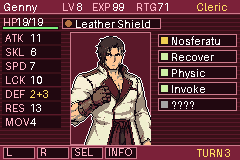
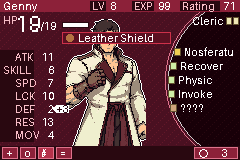
Rediseño más fiel: semicírculo translúcido, retrato grande, HP grande
Claude-Session: https://claude.ai/code/session_01C4QAM7MwvCQVjJLG12SBSt

diff --git a/gba_status/generar.py b/gba_status/generar.py
@@ -1,74 +1,101 @@
-"""Pantalla de estado estilo GBA: 240x160, color RGB555 (15 bits)."""
+"""Pantalla de estado estilo GBA: 240x160, color RGB555 (15 bits).
+El semicirculo usa mezcla alfa 50% (equivalente a BLDALPHA de la GBA)."""
 from PIL import Image, ImageDraw, ImageFont
 
 W, H = 240, 160
-def c(r, g, b):  # cuantiza a 5 bits por canal (paleta GBA)
+def c(r, g, b):
     q = lambda v: (v >> 3) << 3 | (v >> 5)
     return (q(r), q(g), q(b))
 
-BG, BG2 = c(56, 16, 24), c(88, 24, 40)
-BAR, FR = c(120, 32, 56), c(200, 120, 136)
-TXT, LBL, HL = c(248, 248, 248), c(248, 176, 192), c(248, 216, 96)
-DARK = c(32, 8, 16)
-SKIN, HAIR, HAIR2, EYE = c(248, 216, 184), c(240, 136, 104), c(200, 88, 72), c(112, 56, 32)
+BG, BG2 = c(72, 16, 32), c(96, 24, 40)
+BAR, FR = c(136, 32, 56), c(216, 112, 136)
+TXT, LBL, HL = c(248, 248, 248), c(240, 184, 196), c(248, 216, 96)
+DARK = c(40, 8, 16)
 
 img = Image.new("RGB", (W, H), BG)
 d = ImageDraw.Draw(img); d.fontmode = "1"
-f = ImageFont.load_default()  # fuente bitmap pequeña
-def t(x, y, s, col=TXT): d.text((x, y), s, font=f, fill=col)
+f = ImageFont.load_default()
+def t(x, y, s, col=TXT, dd=None): (dd or d).text((x, y), s, font=f, fill=col)
+def big(x, y, s, col=TXT):  # texto 2x estilo pixel
+    tmp = Image.new("L", (60, 14)); td = ImageDraw.Draw(tmp); td.fontmode = "1"
+    td.text((0, 0), s, font=f, fill=255)
+    tmp = tmp.resize((120, 28), Image.NEAREST)
+    img.paste(Image.new("RGB", tmp.size, col), (x, y), tmp)
 
-# fondo con franjas
-for y in range(14, 144, 4): d.line([(0, y), (W, y)], fill=BG2)
+# fondo con viñeta diagonal sutil
+for y in range(H):
+    for x in range(0, W, 2):
+        if (x + y) % 8 == 0: img.putpixel((x, y), BG2)
 
-# barra superior
-d.rectangle([0, 0, 239, 12], fill=BAR); d.line([(0, 13), (239, 13)], fill=FR)
-t(3, 1, "Genny"); t(62, 1, "LV", LBL); t(76, 1, "8")
-t(92, 1, "EXP", LBL); t(112, 1, "99"); t(136, 1, "RTG", LBL); t(158, 1, "71")
-t(196, 1, "Cleric", HL)
-
-# HP
-t(3, 16, "HP", LBL); t(16, 16, "19/19")
-d.rectangle([2, 26, 58, 29], fill=DARK); d.rectangle([3, 27, 57, 28], fill=c(120, 232, 120))
-
-# retrato: arte del usuario (retrato.png), sin fondo y cuantizado a RGB555
-px, py = 70, 32
-d.rectangle([px, py, px + 80, py + 112], fill=BG2, outline=FR)
-art = Image.open("retrato.png").convert("RGB").crop((0, 0, 80, 112))
+# retrato grande detrás (arte del usuario)
+art = Image.open("retrato.png").convert("RGB")
 bgc = art.getpixel((0, 0))
-mask = Image.new("L", art.size, 255)
+mask = Image.new("L", art.size, 0)
 for y in range(art.height):
     for x in range(art.width):
         p = art.getpixel((x, y))
-        if sum(abs(p[i] - bgc[i]) for i in range(3)) < 40: mask.putpixel((x, y), 0)
+        if sum(abs(p[i] - bgc[i]) for i in range(3)) >= 40: mask.putpixel((x, y), 255)
         art.putpixel((x, y), c(*p))
-img.paste(art, (px + 1, py + 1), mask)
-# objeto equipado
-d.rectangle([62, 18, 160, 28], fill=DARK, outline=FR)
-d.ellipse([65, 20, 71, 26], fill=c(176, 112, 64)); t(75, 18, "Leather Shield")
+img.paste(art, (66, 16), mask)
 
-# stats
-stats = [("ATK", "11"), ("SKL", "6"), ("SPD", "7"), ("LCK", "10"),
-         ("DEF", "2+3"), ("RES", "13"), ("MOV", "4")]
+# semicirculo negro translucido a la derecha (alpha 50%)
+cx, cy, r = 250, 80, 82
+ov = Image.new("RGB", (W, H), (0, 0, 0)); m = Image.new("L", (W, H), 0)
+ImageDraw.Draw(m).ellipse([cx - r, cy - r, cx + r, cy + r], fill=150)
+img = Image.composite(ov, img, m)
+img = img.point(lambda v: (v >> 3) << 3 | (v >> 5))  # re-cuantizar a RGB555
+d = ImageDraw.Draw(img); d.fontmode = "1"
+d.arc([cx - r, cy - r, cx + r, cy + r], 90, 270, fill=c(200, 200, 200))
+d.arc([cx - r - 3, cy - r - 3, cx + r + 3, cy + r + 3], 100, 260, fill=FR)
+
+# barra superior
+d.rectangle([0, 0, 239, 11], fill=BAR)
+t(3, 0, "Genny")
+for x, lab, val in [(90, "LV", "8"), (132, "EXP", "99"), (180, "Rating", "71")]:
+    d.rectangle([x, 1, x + len(lab) * 6 + 3, 10], fill=DARK); t(x + 2, 0, lab, LBL)
+    t(x + len(lab) * 6 + 8, 0, val)
+
+# HP grande + barra
+t(3, 14, "HP", LBL); big(16, 12, "19"); t(42, 20, "/19")
+d.rectangle([62, 22, 88, 27], fill=DARK); d.rectangle([63, 23, 87, 26], fill=TXT)
+
+# clase con iconos de libro
+t(192, 15, "Cleric")
+for x in (226, 233):
+    d.rectangle([x, 17, x + 5, 24], fill=c(232, 224, 176), outline=c(96, 80, 48))
+
+# banner de objeto
+d.rectangle([62, 32, 170, 43], fill=c(88, 16, 32), outline=c(200, 48, 72))
+d.ellipse([66, 34, 73, 41], fill=c(176, 112, 64)); t(78, 32, "Leather Shield")
+
+# stats (sin cajas, etiqueta en columna oscura)
+stats = [("ATK", "11"), ("SKILL", "6"), ("SPD", "7"), ("LCK", "10"),
+         ("DEF", "2"), ("RES", "13"), ("MOV", "4")]
+d.rectangle([0, 50, 33, 50 + 7 * 13], fill=DARK)
 for i, (k, v) in enumerate(stats):
-    y = 32 + i * 14
-    d.rectangle([2, y, 60, y + 11], fill=DARK)
-    t(5, y, k, LBL); t(30, y, v, HL if "+" in v else TXT)
+    y = 51 + i * 13
+    t(33 - len(k) * 6, y, k, LBL); t(48 - len(v) * 6 + 6, y, v)
+d.polygon([(52, 108), (56, 105), (68, 105), (68, 112), (56, 112)], fill=TXT)
+t(56, 103, "+3", DARK)
 
-# habilidades
+# libro de comandos sobre el semicirculo
 skills = [("Nosferatu", c(232, 200, 80)), ("Recover", c(200, 232, 160)),
-          ("Physic", c(200, 232, 160)), ("Invoke", c(200, 232, 160)), ("????", c(160, 160, 160))]
+          ("Physic", c(200, 232, 160)), ("Invoke", c(200, 232, 160)), ("????", c(200, 160, 120))]
 for i, (s, col) in enumerate(skills):
-    y = 34 + i * 16
-    d.rectangle([158, y, 236, y + 12], fill=DARK, outline=FR)
-    d.rectangle([161, y + 3, 167, y + 9], fill=col); t(171, y + 1, s)
+    y = 46 + i * 14; x = 176 - (8 if i in (0, 4) else 4 if i == 1 else 0) + (i == 4) * 0
+    x = [174, 170, 168, 168, 170][i]
+    d.rectangle([x, y + 2, x + 6, y + 9], fill=col, outline=c(96, 80, 48))
+    t(x + 10, y, s)
 
-# barra inferior de iconos
-d.rectangle([0, 146, 239, 159], fill=BAR); d.line([(0, 145), (239, 145)], fill=FR)
-for i, lab in enumerate(["L", "R", "SEL", "INFO"]):
-    x = 3 + i * 34; d.rectangle([x, 147, x + 31, 158], fill=DARK, outline=FR)
-    t(x + 3, 146, lab, LBL)
-t(196, 147, "TURN 3", HL)
+# barra inferior
+d.rectangle([0, 146, 239, 159], fill=DARK)
+for i in range(4):
+    x = 2 + i * 18
+    d.rectangle([x, 147, x + 15, 158], fill=BAR if i != 2 else c(176, 48, 72), outline=FR)
+t(6, 147, "+"); t(24, 147, "o"); t(41, 147, "#"); t(60, 147, "=")
+d.rectangle([194, 147, 237, 158], fill=BAR, outline=FR)
+d.ellipse([199, 149, 207, 157], outline=TXT); t(222, 147, "3")
 
 img.save("estado_gba.png")
 img.resize((W * 4, H * 4), Image.NEAREST).save("estado_gba_x4.png")
-print(len(img.getcolors()), "colores")
+print(len(img.getcolors(4096)), "colores")
